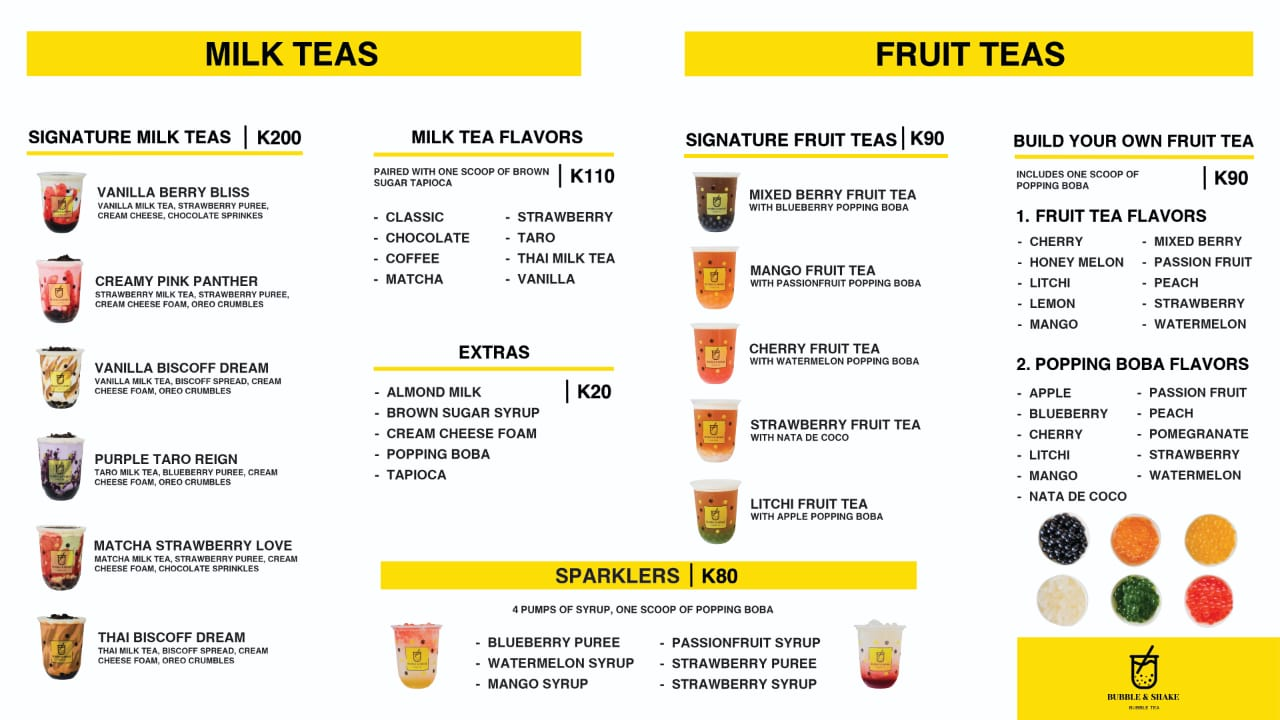
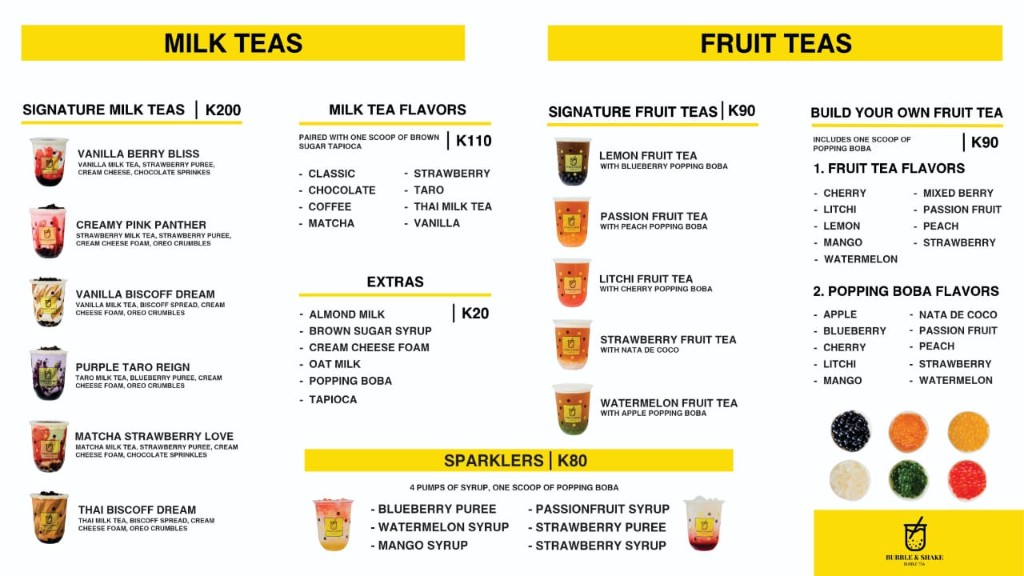
Update menu board image and social links (Instagram, TikTok)

diff --git a/index.html b/index.html
@@ -1081,9 +1081,9 @@
                 <div class="footer-section">
                     <h4>Follow Us</h4>
                     <div class="social-links">
-                        <a href="https://www.instagram.com/bubbleandshake/" target="_blank" rel="noopener noreferrer">Instagram</a>
+                        <a href="https://www.instagram.com/bubbleandshake_?igsh=MWlucjViNWhwenFibA==" target="_blank" rel="noopener noreferrer">Instagram</a>
                         <a href="https://www.facebook.com/bubbleandshake/" target="_blank" rel="noopener noreferrer">Facebook</a>
-                        <a href="https://x.com/bubbleandshake" target="_blank" rel="noopener noreferrer">Twitter</a>
+                        <a href="https://www.tiktok.com/@bubbleandshake_?_r=1&_t=ZS-95MYg3MMHb8" target="_blank" rel="noopener noreferrer">TikTok</a>
                     </div>
                 </div>
             </div>